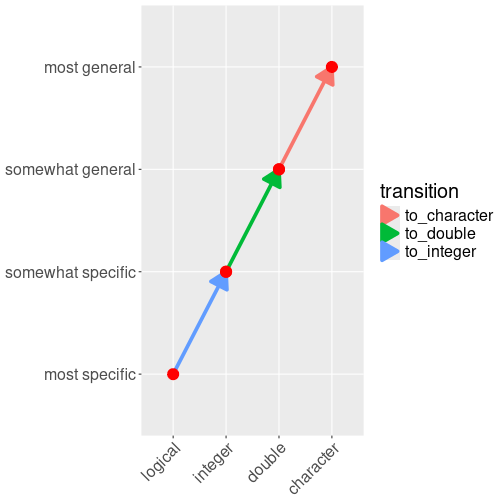
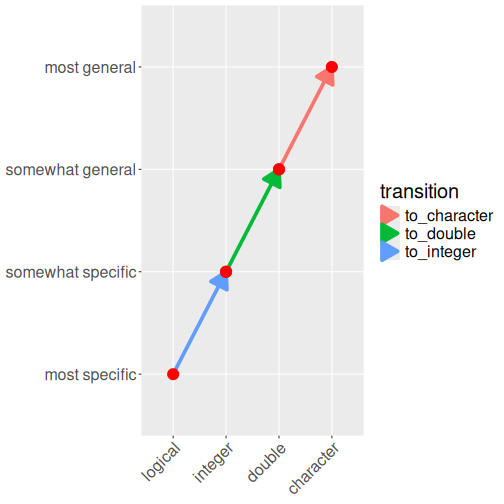
fix(missed-image) adding missed files

diff --git a/index.html b/index.html
@@ -35,7 +35,7 @@ class: center, middle, inverse, title-slide
 ### CalgaryR
 ]
 .date[
-### 2024/09/24 (updated: 2024-09-26)
+### 2024/09/24 (updated: 2025-11-11)
 ]
 
 ---
@@ -144,8 +144,8 @@ class: left, middle
 #R uses data types to represent values in memory
 
 
-<div class="datatables html-widget html-fill-item" id="htmlwidget-3076436c1ae0cb2d3c5f" style="width:100%;height:auto;"></div>
-<script type="application/json" data-for="htmlwidget-3076436c1ae0cb2d3c5f">{"x":{"filter":"none","vertical":false,"data":[["logical","integer","double","character","complex","raw"],["TRUE, T, FALSE, F","2, 2L","2.0, 43.9, 10","'home', \"home2\", \"123\", \"$#.\"","-1+i, 1i","intToBits(2), charToRaw(\"A\")"]],"container":"<table class=\"display\">\n  <thead>\n    <tr>\n      <th>Type<\/th>\n      <th>Examples of values<\/th>\n    <\/tr>\n  <\/thead>\n<\/table>","options":{"columnDefs":[{"name":"type","targets":0},{"name":"values","targets":1}],"order":[],"autoWidth":false,"orderClasses":false}},"evals":[],"jsHooks":[]}</script>
+<div class="datatables html-widget html-fill-item" id="htmlwidget-164bea3db6c5e28d1325" style="width:100%;height:auto;"></div>
+<script type="application/json" data-for="htmlwidget-164bea3db6c5e28d1325">{"x":{"filter":"none","vertical":false,"data":[["logical","integer","double","character","complex","raw"],["TRUE, T, FALSE, F","2, 2L","2.0, 43.9, 10","'home', \"home2\", \"123\", \"$#.\"","-1+i, 1i","intToBits(2), charToRaw(\"A\")"]],"container":"<table class=\"display\">\n  <thead>\n    <tr>\n      <th>Type<\/th>\n      <th>Examples of values<\/th>\n    <\/tr>\n  <\/thead>\n<\/table>","options":{"columnDefs":[{"name":"type","targets":0},{"name":"values","targets":1}],"order":[],"autoWidth":false,"orderClasses":false}},"evals":[],"jsHooks":[]}</script>
 ???
 
 ####Everything in R is an object, and all objects have a type
@@ -1565,8 +1565,8 @@ class: center, middle
 <script src="https://remarkjs.com/downloads/remark-latest.min.js"></script>
 <script src="my-macros.js"></script>
 <script>var slideshow = remark.create({
-"highlightLines": true,
-"countIncrementalSlides": false
+  "highlightLines": true,
+  "countIncrementalSlides": false
 });
 if (window.HTMLWidgets) slideshow.on('afterShowSlide', function (slide) {
   window.dispatchEvent(new Event('resize'));

diff --git a/libs/datatables-binding/datatables.js b/libs/datatables-binding/datatables.js
@@ -180,7 +180,7 @@ HTMLWidgets.widget({
     };
   },
   renderValue: function(el, data, instance) {
-    if (el.offsetWidth === 0 || el.offsetHeight === 0) {
+    if ((el.offsetWidth === 0 || el.offsetHeight === 0) && data.lazyRender !== false) {
       instance.data = data;
       return;
     }
